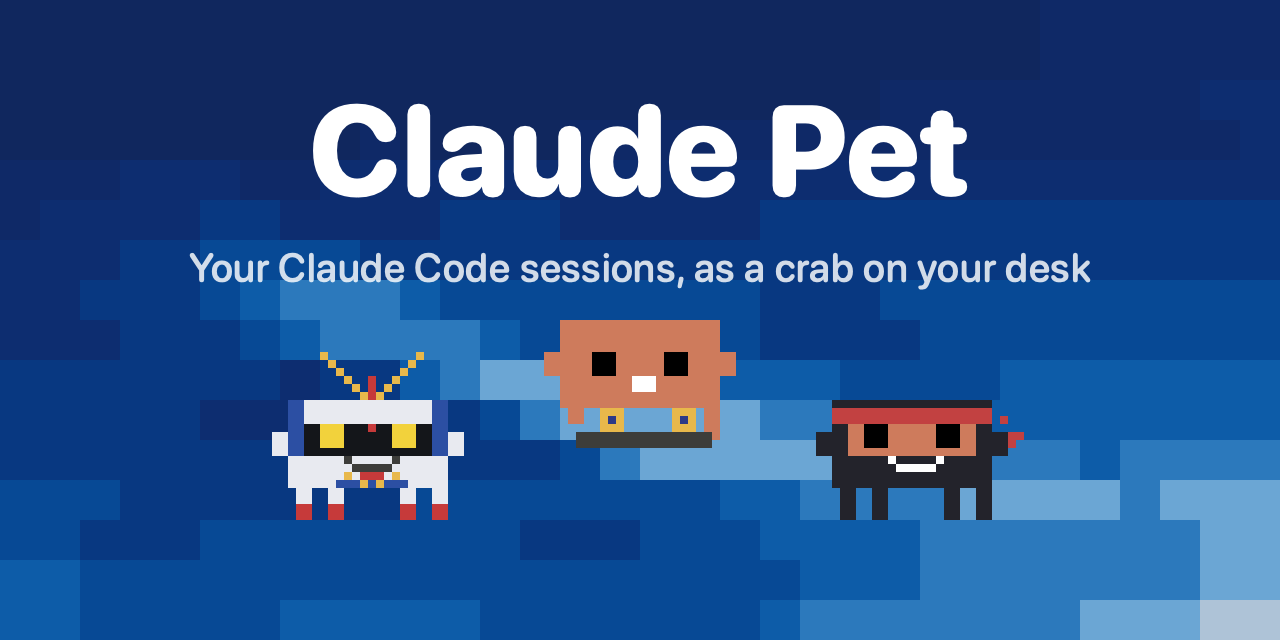
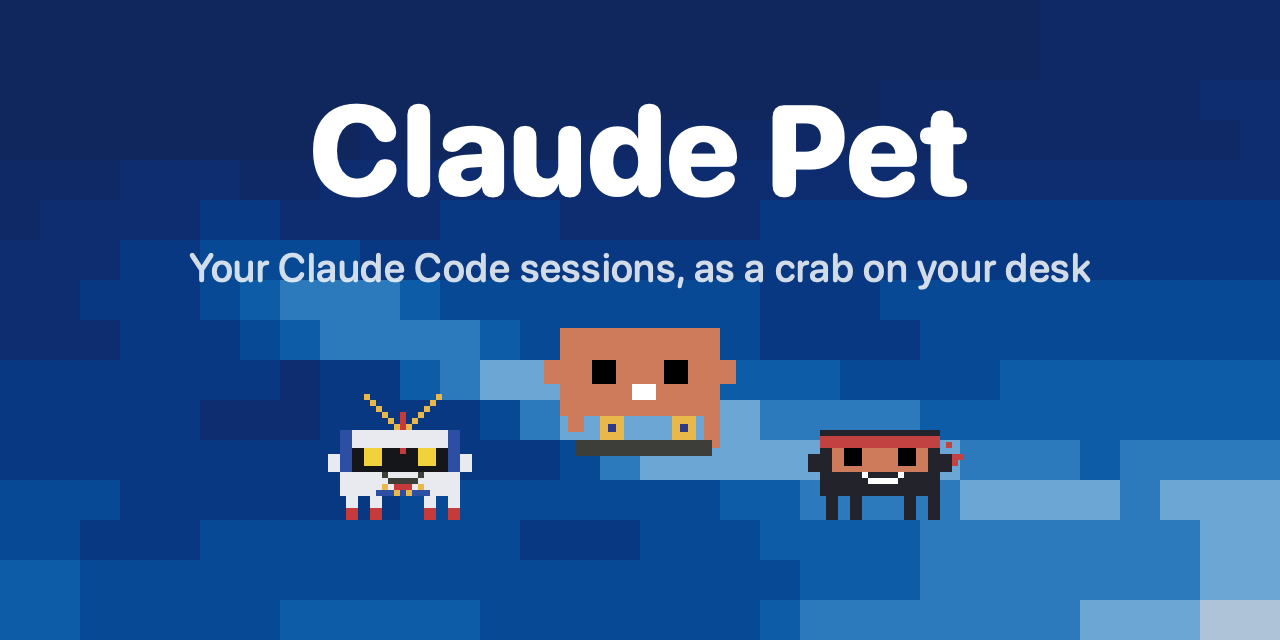
Each crab speaks for himself, and every costume gets a screen test
The wardrobe strip restaged to the operator's blocking. One shared bubble made
it a slideshow with three extras; now Gundam reads an Anthropic fact for the
whole clip, the ninja thinks in dots — he is a ninja, he does not explain
himself — and Claw'd lands the kickflip and THEN shouts, which is the order a
shout happens in. The flanks drop to 96pt against his 128 and step back a few
points, so the strip reads as a pack with the mascot at the front rather than
a police lineup. Both sides stay whole multiples of the 32-cell grid, and a
test now pins the depth as well as the words: the shout must follow the
landing, the fact must be in the pools, and nobody may hand the ninja a
sentence.

And `--render-samples`: one six-second screen test per costume, his own effect
fired ON CAMERA, a real line in the bubble, one flourish. The effects ride
dice on the wall of t, so each sample's clock opens where its effect actually
fires — solved from the same splitmix64 the app rolls, which is how the ninja's
clip opens at t=88: his shuriken first flies at t=90, and a clip opening at
zero would show a costume and no effect. Review material, not committed media;
the flag exists so the next round of marketing picks is a render away.

433 tests, exit 0. costumes.gif and social-preview.png move — the restage —
and the reel is byte-stable across two renders.

diff --git a/Sources/ClaudePet/App/ReelRenderer.swift b/Sources/ClaudePet/App/ReelRenderer.swift
@@ -542,15 +542,16 @@ enum ReelRenderer {
                 Text("Your Claude Code sessions, as a crab on your desk")
                     .font(.system(size: 20, weight: .medium, design: .rounded))
                     .foregroundStyle(.white.opacity(0.82))
-                HStack(spacing: 8) {
-                    ForEach(Array(costumeCast.enumerated()), id: \.offset) { _, member in
+                HStack(alignment: .bottom, spacing: 8) {
+                    ForEach(Array(costumeCast.enumerated()), id: \.offset) { index, member in
                         PixelCanvasView(
                             buffer: CrabRig.render(costumePose(member, at: midFlip),
                                                    costume: member.costume),
                             inkOverrides: CostumeStyle.blendedOverrides(from: member.costume,
                                                                        to: member.costume, u: 1),
                             seamBleed: 0)
-                            .frame(width: 128, height: 128)
+                            .frame(width: member.side, height: member.side)
+                            .offset(y: index == 1 ? 4 : -6)
                     }
                 }
             }
@@ -587,31 +588,26 @@ enum ReelRenderer {
     /// call, and the right one: the strip is the brand's second hero, and the
     /// brand is the orange crab — the costumes are his wardrobe, not his
     /// replacements. `.none` here is not "undressed", it is the mascot.
-    static let costumeCast: [(costume: Costume, flourish: CrabAnimator.Flourish, onsets: [Double])] = [
-        (.gundam, .wiggle,   [1.2, 6.4]),
-        (.none,   .kickflip, [3.2]),
+    ///
+    /// **Each crab speaks for himself now** — one shared bubble made the strip
+    /// a slideshow with three extras. Gundam reads an Anthropic fact the whole
+    /// clip; the ninja just thinks (the dots — he is a ninja, he does not
+    /// explain himself); Claw'd lands the kickflip and THEN shouts, which is
+    /// the order a shout happens in. `line: nil` means the dots.
+    ///
+    /// **And the flanks are smaller.** 96 against Claw'd's 128 — both whole
+    /// multiples of the 32-cell grid at heroScale, so no cell lands on a
+    /// fractional pixel — and raised a few points, so the strip reads as a
+    /// pack with the mascot at the front of it rather than a police lineup.
+    static let costumeCast: [(costume: Costume, flourish: CrabAnimator.Flourish,
+                              onsets: [Double], line: String?, lineFrom: Double,
+                              side: CGFloat)] = [
+        (.gundam, .wiggle,   [1.2, 6.4],
+         "Anthropic has published Claude's constitution 📜", 0.0, 96),
+        (.none,   .kickflip, [3.2], "Tony Clawd 900 🦅", 6.0, 128),
         // A wave, not a second wiggle: two crabs doing the same idle reads as
         // one animation stamped twice, which is the opposite of a wardrobe.
-        (.ninja,  .wave,     [1.8, 7.4]),
-    ]
-
-    /// What the shared bubble says, beat by beat.
-    ///
-    /// Fixed rather than dealt — a committed asset cannot depend on a draw
-    /// counter and stay byte-reproducible — but no longer one caption for ten
-    /// seconds. The middle beat is the SKATE SHOUT, timed over the kickflip,
-    /// so the strip has a character moment instead of a subtitle; the outer
-    /// beats are Anthropic facts wearing their emoji.
-    ///
-    /// Each marquee beat is long enough for its line to finish scrolling
-    /// (`readSeconds` against the window — asserted in `CostumeStripTests`),
-    /// and each beat's clock restarts at its own zero so a ticker opens on its
-    /// first word rather than mid-sentence. `DemoMode`'s hero beats work the
-    /// same way.
-    static let costumeBeats: [(text: String, from: Double, to: Double)] = [
-        ("Anthropic was founded in 2021 🧡", 0.0, 3.2),
-        ("Tony Clawd 900 🦅", 3.2, 6.2),
-        ("Claude reads images as well as text 👀", 6.2, 10.0),
+        (.ninja,  .wave,     [1.8, 7.4], nil, 0.0, 96),
     ]
 
     static func renderCostumes(to url: URL) -> Bool {
@@ -635,7 +631,8 @@ enum ReelRenderer {
     /// loop point than at the start, and the seam would be the whole strip
     /// twitching once every ten seconds.
     static func costumePose(_ member: (costume: Costume, flourish: CrabAnimator.Flourish,
-                                       onsets: [Double]),
+                                       onsets: [Double], line: String?, lineFrom: Double,
+                                       side: CGFloat),
                             at elapsed: Double) -> CrabPose {
         for onset in member.onsets where elapsed >= onset
             && elapsed < onset + member.flourish.duration {
@@ -649,33 +646,44 @@ enum ReelRenderer {
     static func costumeScene(at elapsed: Double) -> some View {
         ZStack {
             Backdrop(style: .sky)
-            let beat = costumeBeats.last { elapsed >= $0.from } ?? costumeBeats[0]
-            VStack(spacing: 0) {
-                ThoughtBubble(text: beat.text,
-                              tool: nil,
-                              mood: .idle,
-                              style: ActivityCoordinator.bubbleStyle(for: beat.text),
-                              frozenTime: elapsed - beat.from)
-                HStack(spacing: 0) {
-                    ForEach(Array(costumeCast.enumerated()), id: \.offset) { _, member in
+            HStack(alignment: .bottom, spacing: 2) {
+                ForEach(Array(costumeCast.enumerated()), id: \.offset) { index, member in
+                    VStack(spacing: 0) {
+                        // Every crab keeps a bubble SLOT even while silent, so
+                        // the three stand on one baseline instead of the mute
+                        // one riding up by a bubble's height.
+                        Group {
+                            if let line = member.line, elapsed >= member.lineFrom {
+                                ThoughtBubble(text: line, tool: nil, mood: .idle,
+                                              style: ActivityCoordinator.bubbleStyle(for: line),
+                                              frozenTime: elapsed - member.lineFrom)
+                            } else if member.line == nil {
+                                ThoughtBubble(text: "…", tool: nil, mood: .thinking,
+                                              style: .dots, frozenTime: elapsed)
+                            } else {
+                                Color.clear
+                            }
+                        }
+                        .frame(height: 44)
                         PixelCanvasView(
                             buffer: CrabRig.render(costumePose(member, at: elapsed),
                                                    costume: member.costume),
                             inkOverrides: CostumeStyle.blendedOverrides(from: member.costume,
                                                                        to: member.costume, u: 1),
                             seamBleed: 0)
-                            .frame(width: costumeSprite, height: costumeSprite)
+                            .frame(width: member.side, height: member.side)
                     }
+                    // The flanks stand a step behind the mascot.
+                    .offset(y: index == 1 ? 6 : -8)
                 }
             }
-            .offset(y: 8)
         }
         .frame(width: costumeCanvas.width, height: costumeCanvas.height)
         .background(Palette.Ocean.abyss)
     }
 
     /// Wider than the hero, because three crabs stand in it.
-    static let costumeCanvas = CGSize(width: 420, height: 170)
+    static let costumeCanvas = CGSize(width: 560, height: 210)
     /// Whole multiples of the 32-cell grid at `heroScale`, so no cell lands on
     /// a fractional device pixel.
     static let costumeSprite: CGFloat = 112

diff --git a/Sources/ClaudePet/App/CostumeSampler.swift b/Sources/ClaudePet/App/CostumeSampler.swift
@@ -1,0 +1,102 @@
+import SwiftUI
+
+/// Single-costume sample clips, for choosing what the marketing uses next.
+///
+/// One GIF per costume: the character on the sky, his own effect firing ON
+/// CAMERA, a real line in the bubble, and one flourish. Invoked with
+/// `ClaudePet --render-samples <dir>`; the output is review material, not a
+/// committed asset — which is why it has no entry in the README's media set.
+///
+/// The costume effects ride dice on the wall of `t` (`CrabCostume`'s
+/// `effectWindow`, 97-family salts), so each sample's clock does not start at
+/// zero: `t0` is chosen so the effect's first reliable window lands about two
+/// seconds in. Those instants were solved from the same splitmix64 the app
+/// rolls — the ninja's shuriken, for one, first flies at t=90, and a clip
+/// opening at zero would show a costume and no effect.
+@MainActor
+enum CostumeSampler {
+
+    static let seconds = 6.0
+    static let frameDelay = 0.1
+
+    /// costume · where its clock opens · flourish and its onset within the
+    /// clip · what he says. Every line is a REAL one — facts from the pools,
+    /// shouts from the skate deck — because a sample that says marketing copy
+    /// is a sample of nothing.
+    static let cast: [(costume: Costume, t0: Double,
+                       flourish: CrabAnimator.Flourish, onset: Double,
+                       line: String)] = [
+        (.ninja,        88.0, .wave,       3.4, "Red-teaming a model means trying hard to make it misbehave 😈"),
+        (.gundam,       10.0, .wiggle,     3.6, "Anthropic's AI Safety Levels are modeled on biosafety levels"),
+        (.sonic,         3.0, .scuttle,    3.4, "Claude Code launched as a coding agent in your terminal"),
+        (.frankenstein, 33.0, .wiggle,     3.6, "Constitutional AI trains a model against written principles"),
+        (.retroBlack,   31.0, .stretch,    3.6, "Claude is reachable by API, not only a chat window"),
+        (.matrix,        4.0, .lookAround, 3.2, "A token can be a whole word or just a piece of one"),
+        (.white,         4.0, .jump,       3.4, "Anthropic was founded in 2021 🧡"),
+        (.tiger,         4.0, .stretch,    3.2, "Temperature controls how much a model's output varies"),
+        (.arcade,        4.0, .kickflip,   1.6, "Do a Kickflip 🛹!"),
+    ]
+
+    static func render(to directory: String) -> Bool {
+        let root = URL(fileURLWithPath: directory)
+        do {
+            try FileManager.default.createDirectory(at: root, withIntermediateDirectories: true)
+        } catch {
+            FileHandle.standardError.write(Data("could not create \(root.path): \(error)\n".utf8))
+            return false
+        }
+        for member in cast {
+            let frames = Int((seconds / frameDelay).rounded())
+            var images: [CGImage] = []
+            for frame in 0..<frames {
+                let local = Double(frame) * frameDelay
+                guard let image = SpriteImage.cgImage(of: scene(member, at: local),
+                                                      scale: 2, isOpaque: true)
+                else { return false }
+                images.append(image)
+            }
+            let name = "sample-\(member.costume.rawValue).gif"
+            guard GifRenderer.encode(images, to: root.appendingPathComponent(name),
+                                     frameDelay: frameDelay) else { return false }
+        }
+        print("wrote \(cast.count) samples to \(root.path)")
+        return true
+    }
+
+    @ViewBuilder
+    private static func scene(_ member: (costume: Costume, t0: Double,
+                                         flourish: CrabAnimator.Flourish, onset: Double,
+                                         line: String),
+                              at local: Double) -> some View {
+        // The effect clock runs from t0; the flourish is spliced at its onset
+        // the way the wardrobe strip does it, over the STILL idle pose so the
+        // loop point does not catch a breath mid-cycle.
+        let t = member.t0 + local
+        let inFlourish = local >= member.onset && local < member.onset + member.flourish.duration
+        let pose = inFlourish
+            ? CrabAnimator.flourishPose(member.flourish, at: local - member.onset)
+            : CrabAnimator.pose(mood: .idle, t: 0, flourishes: false)
+        // The costume effects read `propPhase` as their clock; splicing the
+        // flourish must not reset it or the sampled window walks off camera.
+        var staged = pose
+        let _ = { staged.propPhase = t }()
+
+        ZStack {
+            Backdrop(style: .sky)
+            VStack(spacing: 0) {
+                ThoughtBubble(text: member.line, tool: nil, mood: .idle,
+                              style: ActivityCoordinator.bubbleStyle(for: member.line),
+                              frozenTime: local)
+                PixelCanvasView(
+                    buffer: CrabRig.render(staged, costume: member.costume),
+                    inkOverrides: CostumeStyle.blendedOverrides(from: member.costume,
+                                                               to: member.costume, u: 1),
+                    seamBleed: 0)
+                    .frame(width: 128, height: 128)
+            }
+            .offset(y: 8)
+        }
+        .frame(width: 300, height: 200)
+        .background(Palette.Ocean.abyss)
+    }
+}

diff --git a/Tests/ClaudePetTests/CostumeStripTests.swift b/Tests/ClaudePetTests/CostumeStripTests.swift
@@ -103,41 +103,53 @@ struct CostumeStripTests {
         }
     }
 
-    /// The bubble's script. Three constants rather than a cursor — a committed
-    /// asset that drew from a deck would render differently depending on what
-    /// the counter had been doing — and every word of it is REAL: the facts
-    /// come from the pools and the shout from the skate deck, so the strip
-    /// shows things he actually says rather than marketing copy shaped like
-    /// them.
-    @Test("The beats tile the clip, and every line is one he really says")
-    func theBeatsAreReal() {
-        let beats = ReelRenderer.costumeBeats
-        #expect(beats.first?.from == 0)
-        #expect(beats.last?.to == ReelRenderer.costumeSeconds)
-        for (a, b) in zip(beats, beats.dropFirst()) {
-            #expect(a.to == b.from, "a gap between \"\(a.text)\" and \"\(b.text)\"")
+    /// Each crab speaks for himself, and every word is REAL.
+    ///
+    /// Constants rather than cursors — a committed asset that drew from a deck
+    /// would render differently depending on what a counter had been doing.
+    /// The facts come from the pools, the shout from the skate deck, and the
+    /// ninja says nothing at all on purpose: his bubble is the thinking dots.
+    @Test("The cast's lines are real, and the shout follows the landing")
+    func theCastSpeaksForItself() {
+        let cast = ReelRenderer.costumeCast
+
+        // Claw'd lands the kickflip and THEN shouts — that is the order a
+        // shout happens in, and the operator asked for exactly this staging.
+        let clawd = cast[1]
+        let shout = try! #require(clawd.line)
+        #expect(Vocab.lines(for: .kickflip).contains(shout),
+                "\"\(shout)\" is not a line he shouts after a trick")
+        let landing = try! #require(clawd.onsets.first) + clawd.flourish.duration
+        #expect(clawd.lineFrom >= landing - 0.001,
+                "the shout at \(clawd.lineFrom)s precedes the landing at \(landing)s")
+
+        // Gundam reads a pool fact, and it finishes scrolling inside the clip.
+        let gundam = cast[0]
+        let fact = try! #require(gundam.line)
+        #expect(FunFacts.all.contains(fact), "\"\(fact)\" is not in the pools")
+        if ActivityCoordinator.bubbleStyle(for: fact) == .marquee {
+            #expect(MarqueeText.readSeconds(for: fact, width: MarqueeText.viewport)
+                    <= ReelRenderer.costumeSeconds - gundam.lineFrom,
+                    "the fact cannot finish scrolling inside the clip")
         }
-        // The middle beat is the character moment: a real skate shout, and it
-        // covers the kickflip from pop to landing.
-        let shout = beats[1]
-        #expect(Vocab.lines(for: .kickflip).contains(shout.text),
-                "\"\(shout.text)\" is not a line he shouts after a trick")
-        let trick = ReelRenderer.costumeCast[1]
-        let onset = try! #require(trick.onsets.first)
-        #expect(shout.from <= onset && onset + trick.flourish.duration <= shout.to,
-                "the shout does not cover the kickflip")
-        // The outer beats are facts from the pools, wearing their emoji.
-        for beat in [beats[0], beats[2]] {
-            #expect(FunFacts.all.contains(beat.text),
-                    "\"\(beat.text)\" is not in the fact pools")
-        }
-        // A marquee beat must be long enough for its line to finish scrolling —
-        // an unfinished sentence at a beat swap is the glitch this exists to
-        // avoid.
-        for beat in beats where ActivityCoordinator.bubbleStyle(for: beat.text) == .marquee {
-            let read = MarqueeText.readSeconds(for: beat.text, width: MarqueeText.viewport)
-            #expect(read <= beat.to - beat.from,
-                    "\"\(beat.text)\" needs \(read)s and its beat is \(beat.to - beat.from)s")
+
+        // The ninja thinks. nil line IS the dots, and a test that let someone
+        // hand him a sentence would un-ninja him.
+        #expect(cast[2].line == nil, "the ninja does not explain himself")
+    }
+
+    /// The pack has depth: the mascot stands larger and in front, the flanks
+    /// smaller — and every side is a whole multiple of the 32-cell grid at
+    /// heroScale, so no cell lands on a fractional device pixel.
+    @Test("Claw'd is the front of the pack")
+    func theMascotIsInFront() {
+        let cast = ReelRenderer.costumeCast
+        #expect(cast[1].side > cast[0].side && cast[1].side > cast[2].side,
+                "the centre is not the largest")
+        for member in cast {
+            let cells = member.side * ReelRenderer.heroScale / 32
+            #expect(cells == cells.rounded(),
+                    "\(member.costume.rawValue) at \(member.side)pt puts cells on fractional pixels")
         }
     }
 }

diff --git a/Sources/ClaudePet/App/main.swift b/Sources/ClaudePet/App/main.swift
@@ -26,6 +26,12 @@ for flag in renderFlags {
     }
 }
 
+if let index = arguments.firstIndex(of: "--render-samples"), index + 1 < arguments.count {
+    // Per-costume sample clips for marketing review — not committed media.
+    let ok = MainActor.assumeIsolated { CostumeSampler.render(to: arguments[index + 1]) }
+    exit(ok ? 0 : 1)
+}
+
 if let index = arguments.firstIndex(of: "--render-sheet"), index + 1 < arguments.count {
     let path = arguments[index + 1]
     let ok = MainActor.assumeIsolated { SpriteSheetRenderer.renderSheet(to: path) }
